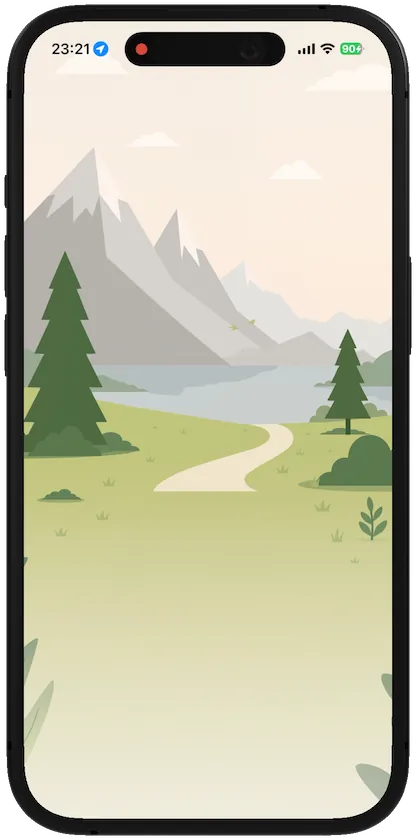
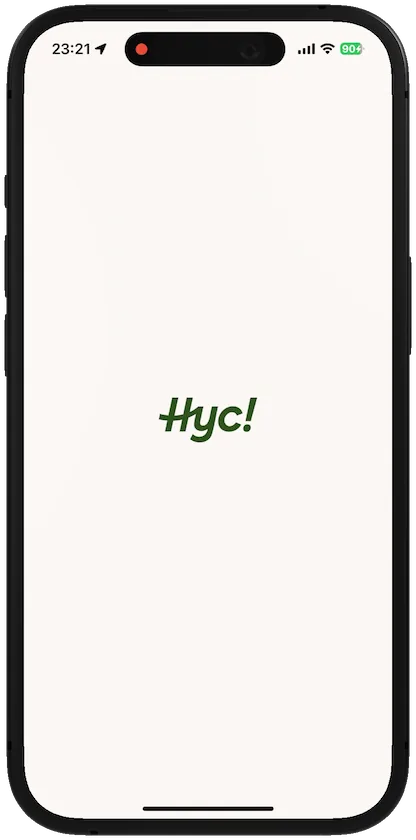
feat(landing): hero z przytrzymaniem, wideo startuje po osiadaniu telefonu
Tor hero ma teraz dwa odcinki: ruch (1,2 wysokości okna, jak dotąd) i
przytrzymanie (1 wysokość okna), w którym scena stoi przypięta, a telefon
na środku. Animacje scroll-driven kończą się na końcu ruchu
(animation-range: contain 0% contain var(--hero-move)), JS liczy --p po
tym samym odcinku, więc wszystkie keyframes zostają bez zmian. Gałąź
natywna (CSS @supports i main.js) wymaga teraz też obsługi długości w
animation-range, inaczej leci ścieżka JS.

Wideo do końca ruchu stoi na pauzie w klatce 0 (splash), startuje, gdy
telefon osiądzie (92% ruchu), gra przez przytrzymanie i pauzuje, gdy scena
zniknie. Powrót scrollem poniżej 88% pauzuje i cofa do splasha, między
progami stan się nie zmienia. Poster to klatka 0, bo iOS bez autoplay
pokazuje tylko poster. Od 60% ruchu wideo dostaje preload="auto".
Odrzucone play() jest ponawiane przy kolejnych klatkach scrolla, a
przejście scrub -> układ statyczny bierze stan z IntersectionObservera.

diff --git a/main.js b/main.js
@@ -315,9 +315,14 @@
     // --hero-bg/--hero-pins/--hero-copy/--hero-phone (styles.css) BEZ JS,
     // skomponowane przez silnik, nie główny wątek — JS już nie pisze --p,
     // więc nie wywołuje ani jednego recalc stylu na klatkę scrolla. To samo
-    // sprawdzenie musi być w CSS (@supports) pod tym samym warunkiem.
+    // sprawdzenie musi być w CSS (@supports) pod tym samym warunkiem. Drugi
+    // warunek: zakres kończy się na długości (--hero-move), nie na procencie;
+    // silnik bez tego zgubiłby zakres, a JS nie pisałby --p, więc hero by stał.
     var nativeScrollTimeline = !!(window.CSS && CSS.supports && (function () {
-      try { return CSS.supports("animation-timeline: view()"); } catch (e) { return false; }
+      try {
+        return CSS.supports("animation-timeline: view()") &&
+          CSS.supports("animation-range: contain 0% contain 1px");
+      } catch (e) { return false; }
     })());
 
     // `--vh` liczony RAZ w JS (load + debounced resize), nie jako żywy
@@ -335,16 +340,33 @@
     // blokuje fałszywy layout shift `--vh` podczas scrolla. Rzeczywisty resize
     // (obrót, zmiana okna na desktop) zawsze zmienia szerokość i przechodzi.
     var lastSyncWidth = -1;
+    // Odcinek ruchu toru w wysokościach okna, ten sam mnożnik co --hero-move
+    // w styles.css. Po nim scena stoi przypięta przez --hero-hold.
+    var MOVE_VH = 1.2;
+    var move = 0;
     var syncVh = function () {
       lastSyncWidth = window.innerWidth;
-      hero.style.setProperty("--vh", Math.max(window.innerHeight, 620) + "px");
+      var vh = Math.max(window.innerHeight, 620);
+      hero.style.setProperty("--vh", vh + "px");
+      move = vh * MOVE_VH;
     };
 
-    // Wideo startuje dopiero, gdy telefon jest cały widoczny (przy scrollu:
-    // postęp >= 0,98), i pauzuje, gdy znika z ekranu. Pusty <video> (jeszcze
-    // bez <source>) po prostu zostaje na posterze. Odrzucone play() (Low Power
-    // Mode na iOS, in-app WebView) ponawiamy przy gestach, dopóki wideo ma
-    // grać, bo bez autoplay przeglądarka nie wznowi sama.
+    // Wideo: dopóki telefon nie osiądzie na środku (koniec ruchu, 92% jak w
+    // hero-phone-scrub), stoi na pierwszej klatce, czyli splashu (ten sam
+    // obraz co poster). Gra przez przytrzymanie i dopóki scena jest w oknie,
+    // pauzuje, gdy znika. Powrót scrollem poniżej STOP_BELOW pauzuje i cofa
+    // do splasha. Między progami stan się nie zmienia: drganie palca na
+    // granicy nie przełącza play/pauza. Odrzucone play() (Low Power Mode na
+    // iOS, in-app WebView) ponawiamy przy gestach i kolejnych klatkach
+    // scrolla, dopóki wideo ma grać, bo bez autoplay przeglądarka nie wznowi
+    // sama.
+    var PLAY_AT = 0.92;
+    var STOP_BELOW = 0.88;
+    var warmed = false;
+    // Ostatni stan z IntersectionObservera (układ statyczny), żeby przejście
+    // scrub -> statyczny (obrót, „ogranicz ruch") nie zostawiło grającego
+    // wideo poza ekranem ani zatrzymanego na ekranie.
+    var ioVisible = false;
     var applyVideo = function () {
       if (!phoneVideo || !phoneVideo.currentSrc) { return; }
       if (videoWanted) {
@@ -361,6 +383,9 @@
       videoWanted = on;
       applyVideo();
     };
+    var rewindToSplash = function () {
+      if (phoneVideo && phoneVideo.currentTime > 0) { phoneVideo.currentTime = 0; }
+    };
     ["visibilitychange", "touchend", "pointerup", "click"].forEach(function (ev) {
       document.addEventListener(ev, function () { if (videoWanted) { applyVideo(); } }, { passive: true });
     });
@@ -374,9 +399,19 @@
     // sync() (load + debounced resize), nie co klatkę.
     var update = function () {
       framePending = false;
-      var p = track > 0 ? Math.min(1, Math.max(0, (window.scrollY - heroTop) / track)) : 0;
+      var p = move > 0 ? Math.min(1, Math.max(0, (window.scrollY - heroTop) / move)) : 0;
       if (!nativeScrollTimeline) { hero.style.setProperty("--p", p.toFixed(4)); }
-      setVideoWanted(p >= 0.98 && heroTop + heroHeight - window.scrollY > 0);
+      // Telefon w drugiej połowie wjazdu: dociągamy wideo, żeby przy osiadaniu
+      // ruszyło od razu. Nie wcześniej, bo to kilka MB na komórkowym łączu
+      // (iOS i tak ignoruje "auto" i ładuje dopiero przy play()).
+      if (!warmed && p > 0.6 && phoneVideo) { warmed = true; phoneVideo.preload = "auto"; }
+      if (p >= PLAY_AT) {
+        setVideoWanted(heroTop + heroHeight - window.scrollY > 0);
+      } else if (p < STOP_BELOW) {
+        setVideoWanted(false);
+        rewindToSplash();
+      }
+      if (videoWanted) { applyVideo(); }
     };
     var onScroll = function () {
       if (!scrubbing || framePending) { return; }
@@ -391,7 +426,10 @@
       if (want !== scrubbing) {
         scrubbing = want;
         hero.classList.toggle("is-scrub", want);
-        if (!want) { hero.style.removeProperty("--p"); }
+        if (!want) {
+          hero.style.removeProperty("--p");
+          setVideoWanted(ioVisible && !(reduceMq && reduceMq.matches));
+        }
       }
       if (scrubbing) {
         heroTop = hero.getBoundingClientRect().top + window.scrollY;
@@ -456,7 +494,9 @@
         }
         prevOutsideHero = outsideHero;
         var nearStart = y < heroTop + resyncEdgeMargin;
-        var nearEnd = track > 0 && y > heroTop + track - resyncEdgeMargin && y <= heroTop + heroHeight;
+        // Koniec zakresu animacji to koniec ruchu (move), nie toru: dalej,
+        // w przytrzymaniu, nic się nie rusza, więc reflow tam nie szarpie.
+        var nearEnd = move > 0 && y > heroTop + move - resyncEdgeMargin && y <= heroTop + heroHeight;
         if (!nearStart && !nearEnd) { return; }
         if (scrubResyncTimer) { window.clearTimeout(scrubResyncTimer); }
         scrubResyncTimer = window.setTimeout(function () {
@@ -484,8 +524,9 @@
     // Statyczny układ: nagranie gra, gdy telefon jest w oknie.
     if (window.IntersectionObserver && phoneVideo) {
       new IntersectionObserver(function (entries) {
+        ioVisible = entries[0].isIntersecting;
         if (scrubbing) { return; }
-        setVideoWanted(entries[0].isIntersecting && !(reduceMq && reduceMq.matches));
+        setVideoWanted(ioVisible && !(reduceMq && reduceMq.matches));
       }, { threshold: 0.6 }).observe(phoneVideo);
     }
   }

diff --git a/styles.css b/styles.css
@@ -376,12 +376,18 @@ body:not(.page-home) .wrap { padding-top: 88px; }
      (assets/hero/phone.webm: 416x840 = 0,4952). */
   --ph: min(calc(var(--vh) * 0.74), 800px);
   --pw: calc(var(--ph) * 0.4952);
+  /* Tor scrolla ma dwa odcinki: ruch (tekst i piny odjeżdżają, telefon
+     wjeżdża na środek) i przytrzymanie (scena stoi przypięta, telefon na
+     środku, wideo gra). --p i wszystkie keyframes opisują tylko ruch; main.js
+     liczy ten sam odcinek (MOVE_VH musi się zgadzać z mnożnikiem --hero-move). */
+  --hero-move: calc(var(--vh) * 1.2);
+  --hero-hold: calc(var(--vh) * 1);
   position: relative;
   /* Wyjście poza kolumnę .wrap do pełnej szerokości okna. */
   width: 100vw;
   margin-left: calc(50% - 50vw);
 }
-.hero.is-scrub { height: calc(var(--vh) * 2.2); }
+.hero.is-scrub { height: calc(var(--vh) + var(--hero-move) + var(--hero-hold)); }
 /* Safari na iOS repaintuje te warstwy od zera przy KAŻDEJ zmianie --p (co
    klatkę scrolla), zamiast je skomponować raz i tylko przesuwać/przenikać —
    stąd cięcia przy scrollu zgłoszone z telefonu, których nie było widać w
@@ -561,11 +567,12 @@ body:not(.page-home) .wrap { padding-top: 88px; }
    zastępuje JS pisanie --p co klatkę scrolla (main.js sprawdza ten SAM
    warunek i wtedy nie pisze --p wcale). Silnik liczy postęp i animuje
    opacity/transform na wątku kompozytora — zero recalc stylu na głównym
-   wątku. Zakres "contain 0%..100%" to dokładnie odcinek scrolla, w którym
-   .hero (wyższe niż okno) W CAŁOŚCI je zakrywa — czyli ten sam przedział,
-   co stary heroTop..heroTop+track liczony w JS. Wartości w @keyframes to
+   wątku. Zakres zaczyna się w "contain 0%" (.hero W CAŁOŚCI zakrywa okno,
+   scena właśnie się przypięła) i kończy po odcinku ruchu --hero-move, czyli
+   ten sam przedział, co heroTop..heroTop+move liczony w JS. Dalej, przez
+   przytrzymanie, `forwards` trzyma końcowy stan. Wartości w @keyframes to
    przepisane na sztywno granice starych clamp()/calc(var(--p)) z JS. */
-@supports (animation-timeline: view()) {
+@supports (animation-timeline: view()) and (animation-range: contain 0% contain 1px) {
   .hero.is-scrub {
     view-timeline-name: --hero-tl;
     view-timeline-axis: block;
@@ -573,22 +580,22 @@ body:not(.page-home) .wrap { padding-top: 88px; }
   .hero.is-scrub .hero-bg {
     animation: hero-bg-scrub 1s linear forwards;
     animation-timeline: --hero-tl;
-    animation-range: contain 0% contain 100%;
+    animation-range: contain 0% contain var(--hero-move);
   }
   .hero.is-scrub .hero-pins {
     animation: hero-pins-scrub 1s linear forwards;
     animation-timeline: --hero-tl;
-    animation-range: contain 0% contain 100%;
+    animation-range: contain 0% contain var(--hero-move);
   }
   .hero.is-scrub .hero-copy {
     animation: hero-copy-scrub 1s linear forwards;
     animation-timeline: --hero-tl;
-    animation-range: contain 0% contain 100%;
+    animation-range: contain 0% contain var(--hero-move);
   }
   .hero.is-scrub .hero-phone {
     animation: hero-phone-scrub 1s linear forwards;
     animation-timeline: --hero-tl;
-    animation-range: contain 0% contain 100%;
+    animation-range: contain 0% contain var(--hero-move);
   }
   /* `animation` to JEDNA właściwość — gdyby ta reguła i wjazd intro
      (.hero-ready .hero-phone niżej w pliku, hero-phone-in na opacity+
@@ -605,7 +612,7 @@ body:not(.page-home) .wrap { padding-top: 88px; }
     animation-delay: 3500ms, 0s;
     animation-fill-mode: backwards, forwards;
     animation-timeline: auto, --hero-tl;
-    animation-range: normal, contain 0% contain 100%;
+    animation-range: normal, contain 0% contain var(--hero-move);
   }
 }
 @keyframes hero-bg-scrub {

diff --git a/index.html b/index.html
@@ -36,7 +36,7 @@
        wersji w URL-u przeglądarka po deployu potrafi skleić nowy index.html
        ze starym styles.css. Wersja w URL-u wymusza świeże pobranie, bo to
        inny zasób. -->
-  <link rel="stylesheet" href="styles.css?v=2026102901">
+  <link rel="stylesheet" href="styles.css?v=2026102903">
 </head>
 <body class="page-home">
   <!-- Górny pasek: strona ma sekcje pod hero (O aplikacji, FAQ, Kontakt)
@@ -142,7 +142,7 @@
                pauzuje, gdy znika z ekranu. Brak `autoplay` jest celowy, start
                należy do main.js. -->
           <div class="hero-phone" role="img" aria-label="Ekran aplikacji Hyc!: trasa do najbliższej bacówki">
-            <video class="phone-video" poster="assets/hero/phone-poster.webp?v=1" muted loop playsinline preload="metadata">
+            <video class="phone-video" poster="assets/hero/phone-poster.webp?v=2" muted loop playsinline preload="metadata">
               <source src="assets/hero/phone.mov?v=1" type='video/quicktime; codecs="hvc1"'>
               <source src="assets/hero/phone.webm?v=1" type="video/webm">
             </video>
@@ -437,6 +437,6 @@
   <script src="scroll-lock.js?v=2"></script>
   <script src="config.js?v=20260812"></script>
   <script src="nav.js?v=20261008" defer></script>
-  <script src="main.js?v=2026101410"></script>
+  <script src="main.js?v=2026102903"></script>
 </body>
 </html>

diff --git a/pobierz.html b/pobierz.html
@@ -11,7 +11,7 @@
   <meta name="robots" content="noindex">
 
   <link rel="preload" href="assets/fonts/Figtree-Variable.woff2" as="font" type="font/woff2" crossorigin>
-  <link rel="stylesheet" href="styles.css?v=2026102901">
+  <link rel="stylesheet" href="styles.css?v=2026102903">
 </head>
 <body class="page-pobierz">
   <header class="topbar">
@@ -152,6 +152,6 @@
   <script src="scroll-lock.js?v=2"></script>
   <script src="config.js?v=20260812"></script>
   <script src="nav.js?v=20261008" defer></script>
-  <script src="main.js?v=2026101401"></script>
+  <script src="main.js?v=2026102903"></script>
 </body>
 </html>

diff --git a/kontakt.html b/kontakt.html
@@ -10,7 +10,7 @@
   <link rel="apple-touch-icon" sizes="180x180" href="assets/apple-touch-icon.png">
 
   <link rel="preload" href="assets/fonts/Figtree-Variable.woff2" as="font" type="font/woff2" crossorigin>
-  <link rel="stylesheet" href="styles.css?v=2026102901">
+  <link rel="stylesheet" href="styles.css?v=2026102903">
 </head>
 <body>
   <header class="topbar">

diff --git a/o-aplikacji.html b/o-aplikacji.html
@@ -10,7 +10,7 @@
   <link rel="apple-touch-icon" sizes="180x180" href="assets/apple-touch-icon.png">
 
   <link rel="preload" href="assets/fonts/Figtree-Variable.woff2" as="font" type="font/woff2" crossorigin>
-  <link rel="stylesheet" href="styles.css?v=2026102901">
+  <link rel="stylesheet" href="styles.css?v=2026102903">
 </head>
 <body>
   <header class="topbar">

diff --git a/README.md b/README.md
@@ -136,7 +136,12 @@ Telefon w hero to render z Rotato (ramka i ekran) z przezroczystym tłem, kadr
   `ffmpeg -i rotato.mov -vf "crop=416:840:512:120,format=yuva420p" -c:v libvpx-vp9
   -pix_fmt yuva420p -b:v 0 -crf 33 -auto-alt-ref 0 -row-mt 1 -an phone.webm`,
   potem `ffmpeg -i phone.webm -c copy -cues_to_front 1 out.webm`.
-- `phone-poster.webp`: klatka z alfą (z 2 s), pokazywana do startu wideo.
+- `phone-poster.webp`: pierwsza klatka (splash) z alfą. Musi być równa klatce 0,
+  bo main.js trzyma wideo na pauzie w klatce 0, dopóki telefon nie osiądzie
+  na środku, a iOS bez autoplay nie pokazuje klatki wideo, tylko poster.
+- Tor hero: ruch (`--hero-move`, 1,2 wysokości okna) i przytrzymanie
+  (`--hero-hold`, 1 wysokość okna). Wideo startuje na końcu ruchu i gra przez
+  przytrzymanie. `MOVE_VH` w main.js musi się zgadzać z `--hero-move`.
 - ⛔ `ffmpeg` nie koduje HEVC z alfą na macOS (`hevc_videotoolbox` pada), a
   `AVAssetExportSession` z `videoComposition` spłaszcza alfę do czerni. Kadrowanie
   trzeba robić klatka po klatce przez `AVAssetReader`/`AVAssetWriter`
